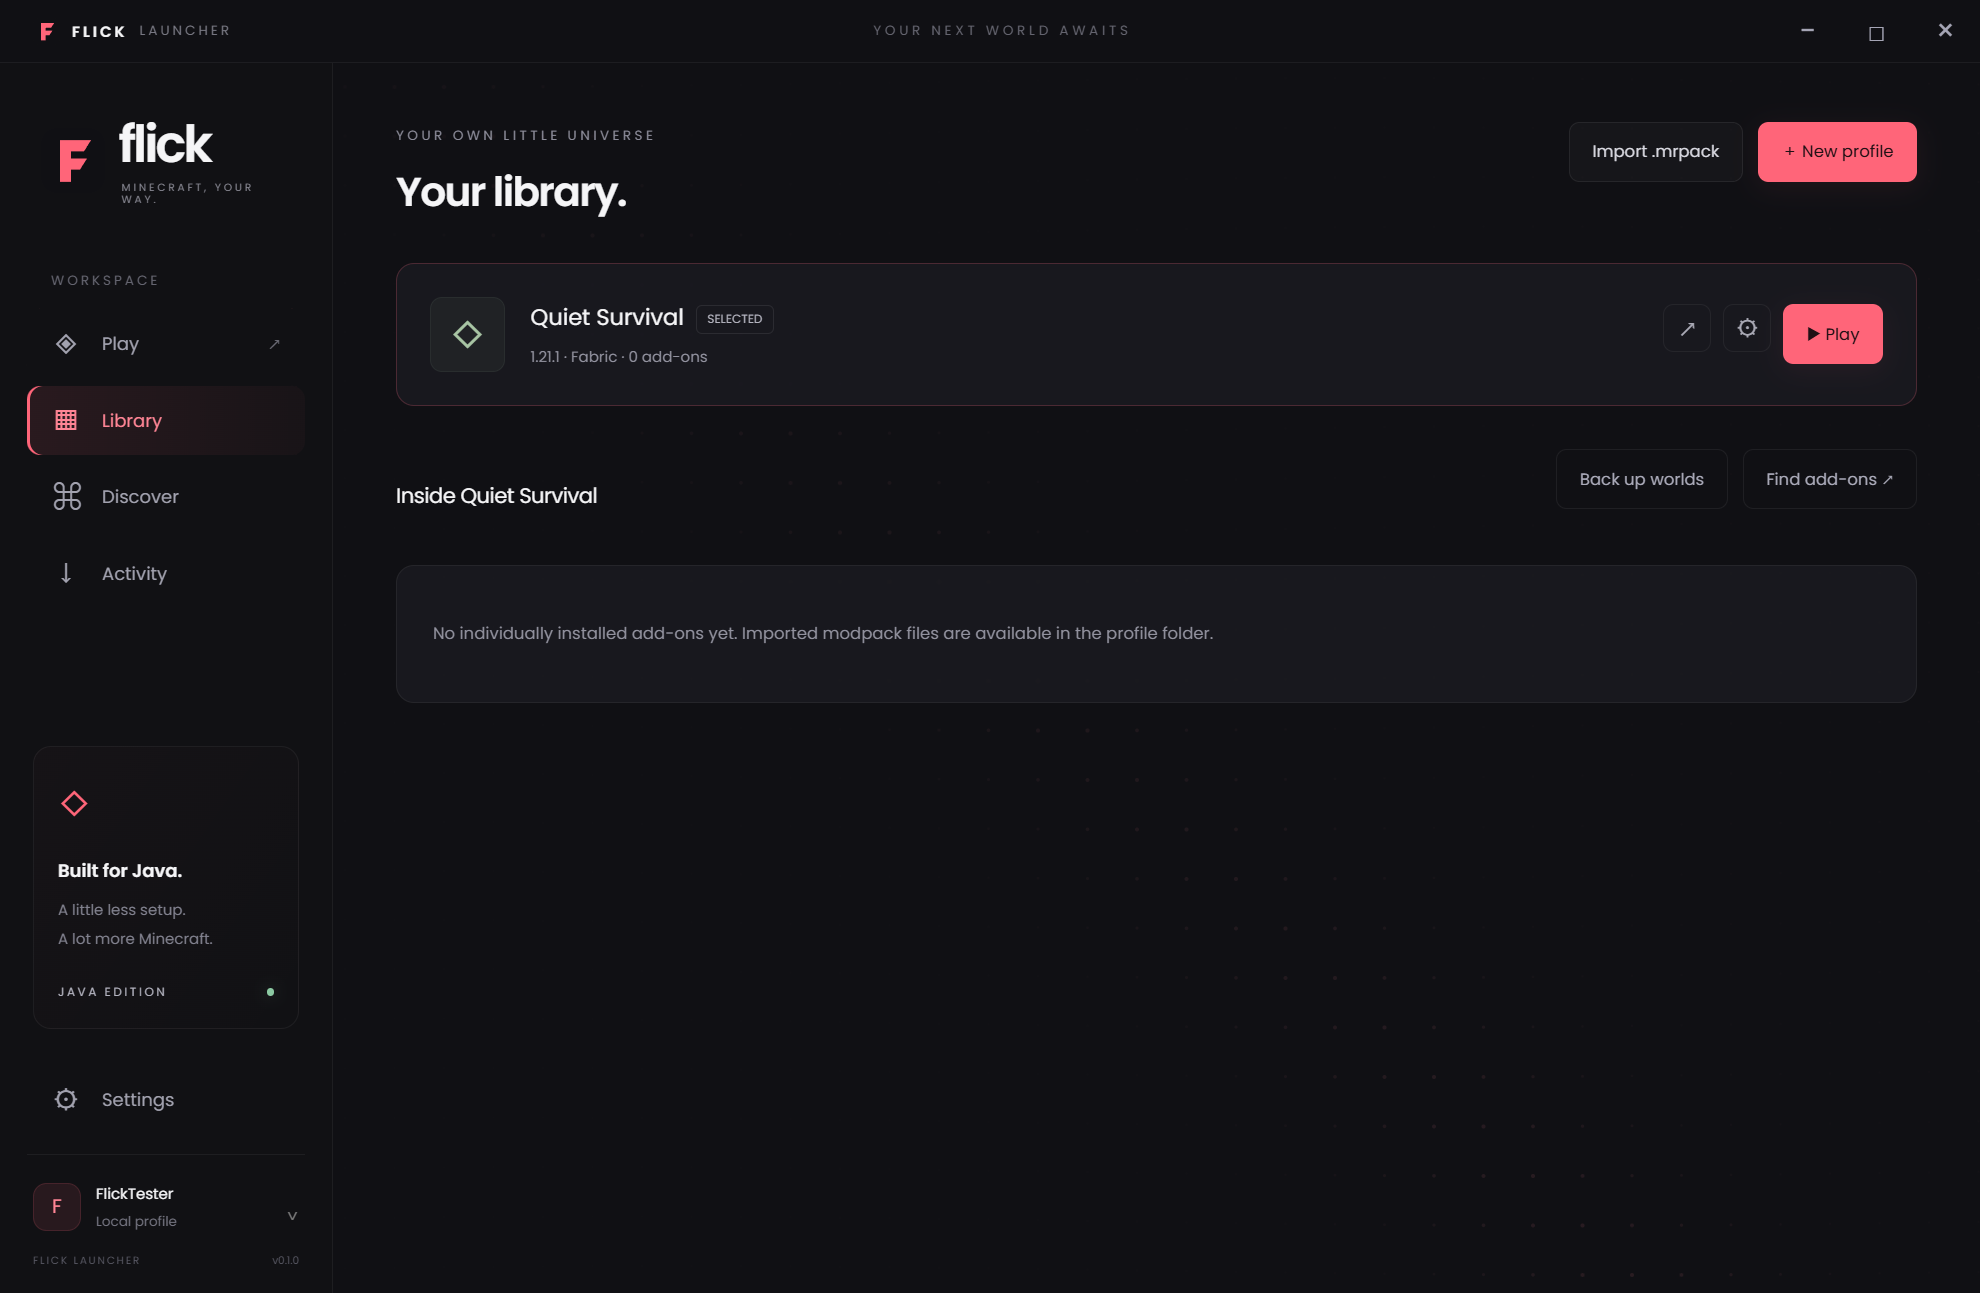
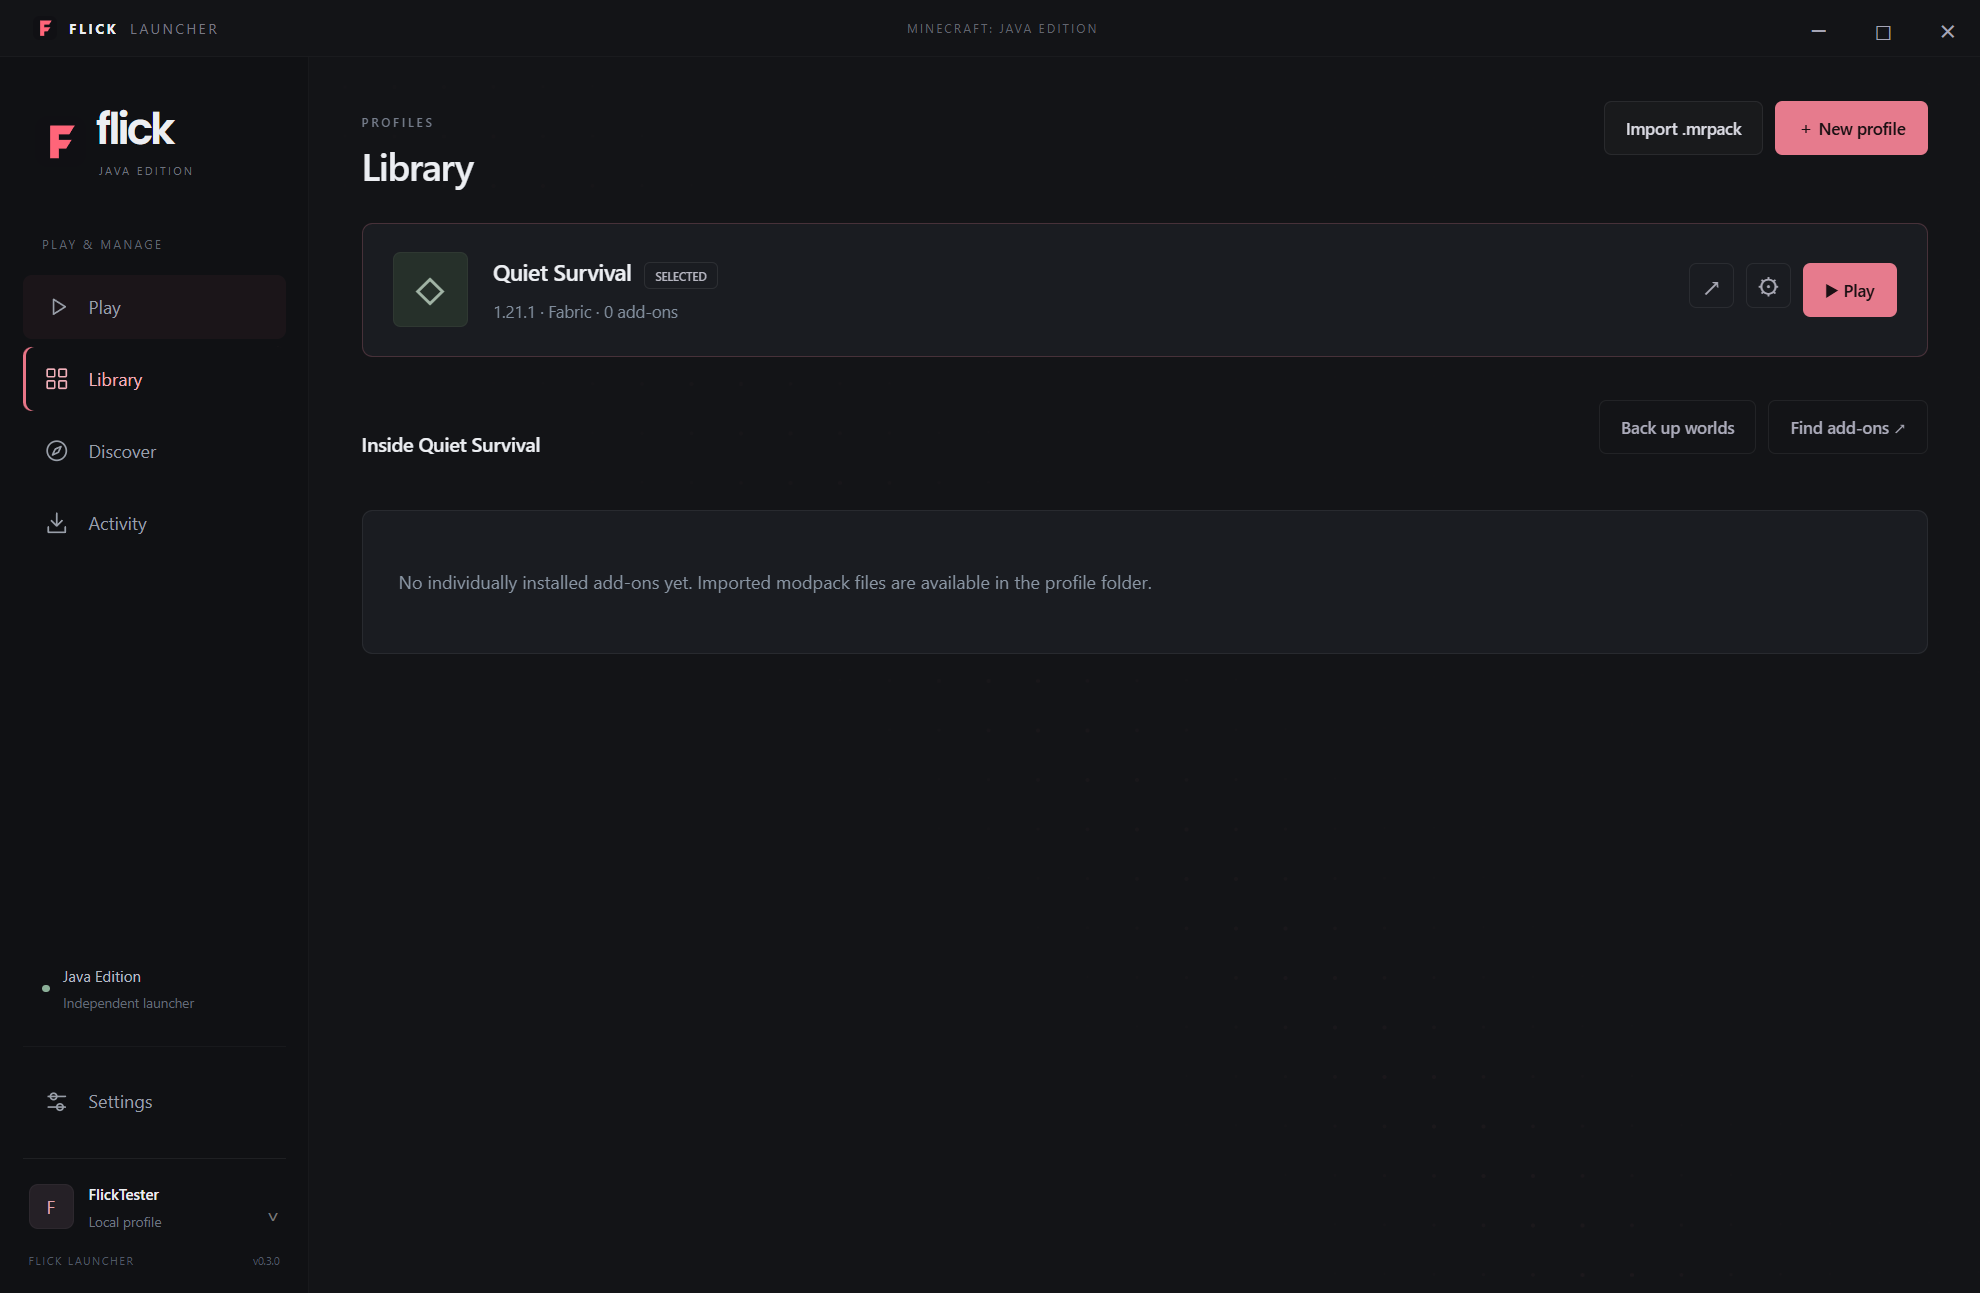
Publish 0.3 preview download and Discord activity information

diff --git a/site/index.html b/site/index.html
@@ -54,7 +54,7 @@
         <div class="hero-copy">
           <a class="status-pill" href="#development"
             ><span class="status-dot"></span> IN DEVELOPMENT
-            <span class="pill-version">PREVIEW 0.1.0</span><span>↗</span></a
+            <span class="pill-version">PREVIEW 0.3.0</span><span>↗</span></a
           >
           <p class="eyebrow">AN INDEPENDENT JAVA EDITION LAUNCHER</p>
           <h1 id="hero-heading">Less setup.<br />More <span>Minecraft.</span></h1>
@@ -63,7 +63,10 @@
             Minecraft your own.
           </p>
           <div class="hero-actions">
-            <a class="button primary" href="#inside">Take a closer look <span>↗</span></a
+            <a
+              class="button primary"
+              href="https://github.com/OskarTrzaskawka/flick-launcher-site/releases/download/v0.3.0/Flick-Launcher-Setup.exe"
+              >Download for Windows <span>&#8599;</span></a
             ><a class="text-link" href="#project">About the project <span>↓</span></a>
           </div>
           <p class="hero-footnote">
@@ -82,7 +85,7 @@
             <button
               class="image-button"
               data-image="assets/launcher-home.png"
-              data-caption="Play — Flick Launcher 0.1.0 development build"
+              data-caption="Play — Flick Launcher 0.3.0 development build"
               aria-label="Enlarge the launcher screenshot"
             >
               <img
@@ -97,7 +100,7 @@
           </div>
           <div class="image-caption">
             <span><i class="status-dot"></i> THE ACTUAL APP, NOT A MOCKUP</span
-            ><span>Flick Launcher / 0.1.0</span>
+            ><span>Flick Launcher / 0.3.0</span>
           </div>
         </div>
       </section>
@@ -259,6 +262,7 @@
               <li>Automatic Java installation on Windows x64</li>
               <li>Modrinth discovery and individual add-on installation</li>
               <li>Modrinth modpack imports and world backups</li>
+              <li>Discord activity with game version, session time and privacy controls</li>
               <li>Startup checks for Vanilla and four mod loaders on 1.21.1</li>
             </ul>
           </article>
@@ -301,8 +305,11 @@
           <details>
             <summary>Can I download it yet?<span>＋</span></summary>
             <p>
-              The current build is a local development preview. A public download has not been
-              published on this website. A release link will be added when a public build is ready.
+              Yes. The Windows x64 development preview is available from the project's
+              <a href="https://github.com/OskarTrzaskawka/flick-launcher-site/releases/tag/v0.3.0"
+                >GitHub release</a
+              >. Choose Setup to install or Portable to run without installation. Both builds are
+              unsigned and remain an early preview. Windows 7 is not supported by this build.
             </p>
           </details>
           <details>
@@ -358,7 +365,7 @@
             >
           </div>
           <div class="project-meta">
-            <span>Version 0.1.0</span><span>Java Edition</span><span>Development preview</span>
+            <span>Version 0.3.0</span><span>Java Edition</span><span>Development preview</span>
           </div>
         </div>
       </section>

diff --git a/site/privacy.html b/site/privacy.html
@@ -57,6 +57,15 @@
         in the default development build. This website does not ask for Microsoft credentials or
         tokens.
       </p>
+      <h2>Discord activity</h2>
+      <p>
+        The 0.3.0 desktop preview can communicate with the locally running Discord desktop client to
+        share launcher activity, the game version, mod loader and session time. The last detected
+        server address is included when server sharing is enabled. Activity and server sharing can
+        be turned off in Settings, including while the game is running. World names and Microsoft
+        credentials are not part of this activity. Discord processes shared activity under its own
+        policies. This website does not receive it.
+      </p>
       <h2>Contact and feedback</h2>
       <p>
         The project's GitHub repository, when linked on the home page, is the place for project

diff --git a/site/styles.css b/site/styles.css
@@ -1449,3 +1449,9 @@ html.motion-paused {
 .hero-visual {
   max-width: 100%;
 }
+
+.faq-list p a {
+  color: #edb2bf;
+  text-decoration: underline;
+  text-underline-offset: 3px;
+}

diff --git a/README.md b/README.md
@@ -33,7 +33,7 @@ The script commits staged website changes, pushes `main`, and updates `gh-pages`
 
 An optional manual GitHub Actions workflow is included. If switching to it, first select **GitHub Actions** as the Pages source, then run **Deploy GitHub Pages** from the Actions tab. It uploads only `site/` and uses GitHub's temporary token and Pages OIDC permissions. The default branch deployment does not require running that workflow.
 
-All local asset links are relative so the website works under a repository subpath. The website contains no installer download until an actual public release is available. Do not add a fake download URL or claim untested operating-system compatibility.
+All local asset links are relative so the website works under a repository subpath. The website links to the Windows x64 0.3.0 development-preview release on GitHub. Both builds are unsigned. Keep download links pinned to a published release and do not claim untested operating-system compatibility.
 
 After publishing, use the real `https://<account>.github.io/<repository>/` URL in the Minecraft application-review form. A website does not guarantee approval.
 
@@ -52,3 +52,5 @@ Website code: MIT, see `LICENSE`. Poppins fonts: SIL Open Font License 1.1; orig
 Website: https://oskartrzaskawka.github.io/flick-launcher-site/
 
 Repository: https://github.com/OskarTrzaskawka/flick-launcher-site
+
+The current app captures include a Minecraft 1.21.5 screenshot owned by Mojang Studios/Microsoft. Source: https://www.minecraft.net/en-us/article/minecraft-java-edition-1-21-5 . No affiliation or endorsement is implied.
